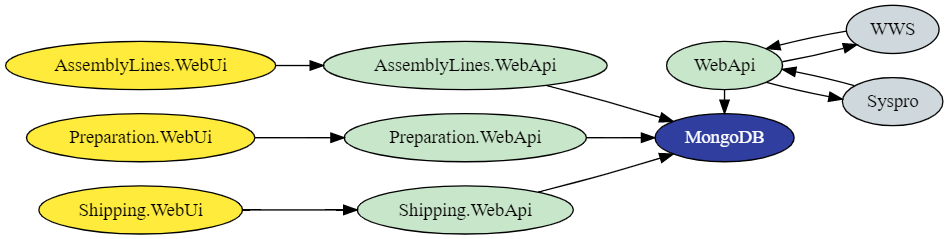
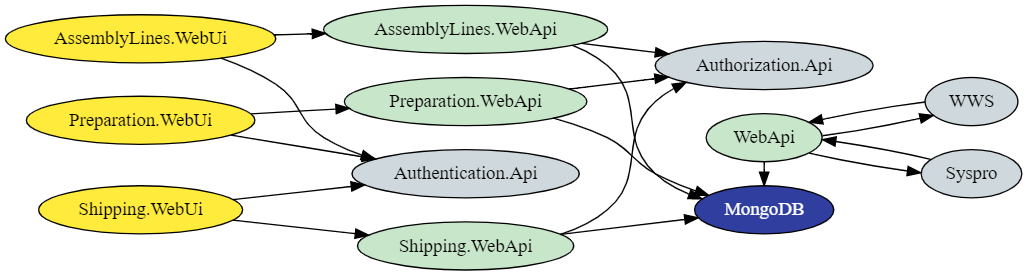
template: Extend template with more information

diff --git a/sidebars.js b/sidebars.js
@@ -1,6 +1,6 @@
 module.exports = {
   sidebar: {
     Users: ['user-guide', 'q-and-a', 'release-notes', 'business-data', 'access-rights', 'known-issues'],
-    Developers: ['big-picture', 'api-specs', 'interfaces', 'troubleshooting'],
+    Developers: ['big-picture', 'api-specs', 'interfaces'],
   },
 };

diff --git a/docusaurus.config.js b/docusaurus.config.js
@@ -52,7 +52,7 @@ module.exports = {
             },
             {
               label: 'Developers',
-              to: 'docs/api-specs',
+              to: 'docs/big-picture',
             },
           ],
         },

diff --git a/docs/q-and-a.md b/docs/q-and-a.md
@@ -4,12 +4,37 @@ title: Q & A
 ---
 ## How do I install this template?
 Just clone this repository or download it to you local machine. Then drop
-the `docs` folder into your microservice repository.
+the content into a `docs` folder into your microservice repository.
 
-## How do I create a deployment for a documentation?
-You need to add a deployable unit based on the docs folder. First you have
-to add a teamcity configuration and an octopus project. Then you need to
-add a deployment config. See the following example as a starting point.
+## How do I create a deployable unit?
+This depends on your build pipeline and the build scripts that you are using.
+The output of your build stage should be a `nuget` package that has the
+content of the `build` folder inside the `application` folder.
+
+:::note
+You need to add the _Fabio_ route to the path inside the application folder
+because in the deployment config we will disable _Fabio stripping_.
+:::
+
+You also need to include the health check inside the application folder for
+_Consul_. This is nothing that will be provided by _Docusaurus_. Just drop
+an `index.html` file into the `.infrastructure/status` folder during your
+build stage. The artifact layout should look like this:
+
+```
+/application/microservice/docs/
+/application/.infrastructure/status/
+```
+
+Where `/microservice/docs` is the _Fabio route_ your app will use.
+
+## How should the deployment config look like?
+See the following example as a starting point. Notice the following things
+1. _Fabio stripping_ is disabled
+1. health check url points to `./infrastructure/status/`
+1. provide service info is set to `false` 
+1. you need to reserve a port as for other services
+
 ```xml
 <?xml version="1.0" encoding="utf-8"?>
 <Deployment ScriptVersion="3">
@@ -18,7 +43,7 @@ add a deployment config. See the following example as a starting point.
   <ApplicationName>Microservice.Docs</ApplicationName>
   <Configuration>
     <Properties>
-      <Property Name="Port">99999999</Property>
+      <Property Name="Port">_PORT_</Property>
       <Property Name="Route">/microservice/docs</Property>
     </Properties>
   </Configuration>
@@ -43,6 +68,3 @@ add a deployment config. See the following example as a starting point.
   </Application>
 </Deployment>
 ```
-
-For the `nuspec` part you need to make sure to copy the output of the `build`
-folder into the `application/microservice/docs` folder.

diff --git a/docs/api-specs.md b/docs/api-specs.md
@@ -11,8 +11,27 @@ import TOCInline from '@theme/TOCInline';
 
 <TOCInline toc={toc} />
 
-### `GET /documentations/{docId}`
-Gets the documentation with the given `docId`. You will get a `404` response
+### `POST /documentations`
+Creates a new documentation. Please provide a
+[`DocumentationDto`](interfaces.md#docs-dto) model as data. If the name of
+the documentation does not yet exists, you will get a `200` result with the
+just created [`DocumentationDto`](interfaces.md#docs-dto) model. Otherwise
+you will receive a `400` or `409` error.
+
+### `GET /documentations/{id}`
+Gets the documentation with the given `id`. You will get a `404` response
 if that id does not exists.
 
-Returns a [`DocumentationDto`](interfaces.md#docs-dto) that represents a documentation entry.
+Returns a [`DocumentationDto`](interfaces.md#docs-dto) that represents a
+documentation entry.
+
+### `PUT /documentation/{id}`
+Updates the documentation with the given `id`. Please provide a 
+[`DocumentationDto`](interfaces.md#docs-dto) model for the update. If the
+update was successful, you will get a `204` response. Otherwise you will
+get a `404` error if the documentation does not exists.
+
+### `DELETE /documentation/{id}`
+Deletes the documentation with the given `id`. If the documentation was
+deleted, you will get a `204` response. Otherwise you will get a `404`
+error if the documentation does not exists.

diff --git a/docs/interfaces.md b/docs/interfaces.md
@@ -8,18 +8,25 @@ Please describe your interfaces here like _RabbitMq_, _Apache Kafka_, _Sftp Uplo
 ### `DocumentationDto` {#docs-dto}
 ```json
 {
-    "id": "1234",
-    "url": "https://docs.io/content-url",
+    "id": "1",
+    "name": "Documentation template",
+    "url": "https://engelbert-strauss.github.io/docs-tempalte/",
 }
 ```
 
 ## RabbitMq
-### `DocumentationAddedMessage`
-The microservices publishes the following event when a new documentation
-was added. The message contains a [`DocumentationDto`](#docs-dto)
+### `DocumentationChangedMessage`
+The microservices publishes the event when a new documentation
+was added or an existing documentation was updated. The message contains a
+[`DocumentationDto`](#docs-dto).
+
+### `DocumentationDeletedMessage`
+The microservice publishes the event when a documentation was deleted. The
+event only contains the `id` of the documentation was deleted.
 
 ## Apache Kafka
-### `escid.documentation.stream`
+### `documentations.stream`
 The microservice pushes documentation as [`DocumentationDto`](#docs-dto)'s
 into the stream. Use this stream to get all documentations that are currently
-present.
+present. In case a a documentation will be deleted, it is removed from the
+stream.

diff --git a/docs/access-rights.md b/docs/access-rights.md
@@ -7,6 +7,7 @@ information when adding new users to this app. So be precise in description
 which task is needed for what. The name and the description is always in
 German.
 
-| Task name                       | Description                                                                                        |
-| ------------------------------- | -------------------------------------------------------------------------------------------------- |
-| Dokumentieren der Dokumentation | Der Benutzer ist in der Lage neue Dokumentationen über den Prozess der Dokumentation zu schreiben. |
+| Task name                       | Description                                                                                              |
+| :------------------------------ | :------------------------------------------------------------------------------------------------------- |
+| Dokumentieren der Dokumentation | Der Benutzer ist in der Lage neue Dokumentationen über den Prozess der Dokumentation zu schreiben.       |
+| Erstellen von User Guides       | Der Benutzer verfügt über alle Rechte die nötig sind um einen User Guide zu erstellen oder zu editieren. |

diff --git a/docs/big-picture.md b/docs/big-picture.md
@@ -36,25 +36,27 @@ digraph architecture {
   node[fillcolor="#CFD8DC" style="filled" fontcolor="black"];
   wws[label="WWS"];
   syspro[label="Syspro"];
+  authorization[label="Authorization.Api"]
+  authentication[label="Authentication.Api"]
   
   subgraph clients {
-      assemblylines_webui -> {assemblylines_webapi};
-      preparation_webui -> {preparation_webapi};
-      shipping_webui -> {shipping_webapi};
+      assemblylines_webui -> {assemblylines_webapi, authentication};
+      preparation_webui -> {preparation_webapi, authentication};
+      shipping_webui -> {shipping_webapi, authentication};
   }
   
   subgraph backends {
-      assemblylines_webapi -> {mongo};
-      preparation_webapi -> {mongo};
-      shipping_webapi -> {mongo};
+      assemblylines_webapi -> {mongo, authorization};
+      preparation_webapi -> {mongo, authorization};
+      shipping_webapi -> {mongo, authorization};
       webapi -> {mongo, syspro, wws};
-      
-      {rank=same; webapi, mongo};
   }
   
   subgraph thirdparties {
       wws -> webapi
       syspro -> webapi
   }
+  
+  {rank=same; webapi, mongo};
 }
 ```

diff --git a/docs/release-notes.md b/docs/release-notes.md
@@ -12,3 +12,7 @@ and this project adheres to [Semantic Versioning](https://semver.org/spec/v2.0.0
 - The initial release of the documentation template. This template
   should function as a startup booster to quickly setup a documentation
   project for your microservice.
+- The Q & A section should serve as source for setting your own documentation
+  project quickly.
+- The business data page should clarify all replacement tokens that are
+  available in the template.

diff --git a/docs/user-guide.md b/docs/user-guide.md
@@ -20,3 +20,8 @@ Yet another layer. Do you see it on the right side?
 #### This is not the depth you are looking for
 Not everything is visible on the right side but you can use it to further
 structure you sub headline.
+
+:::info
+If your user guide is more complex you can of course add multiple pages
+and structure your documentation website to your liking.
+:::

diff --git a/docs/known-issues.md b/docs/known-issues.md
@@ -4,3 +4,9 @@ title: Known Issues
 ---
 ## I'm unable to login
 Please contact the support.
+
+## My documentation is not available
+Did yo create one already?
+
+## Help, I delete something in my markdown file!
+Thanks to `git`, you can restore any commited content anytime.
